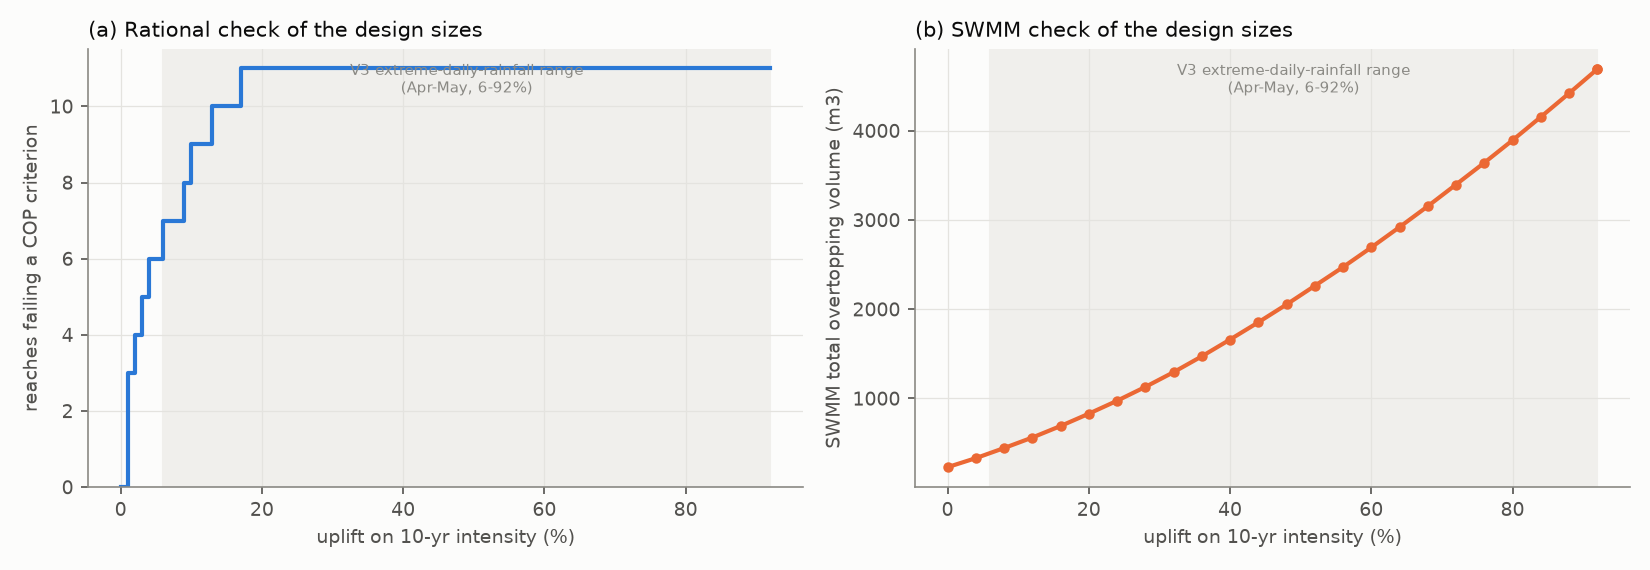
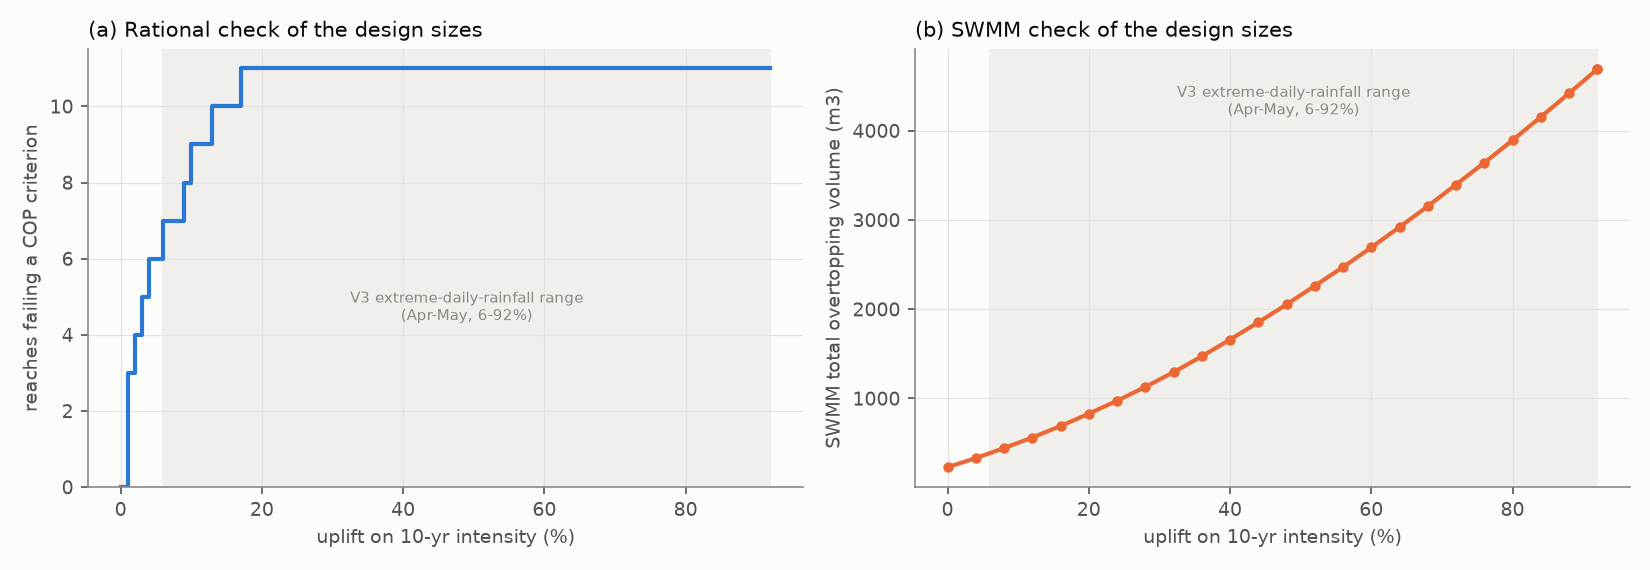
Fix sweep annotation, flag tc cycles, note SWMM Vmax exceedance; mutation runner summary

Changed region(s): [[0.7109, 0.1193, 0.8655, 0.2088], [0.2164, 0.507, 0.3709, 0.5667], [0.2164, 0.1193, 0.3709, 0.1789]]

diff --git a/sgdrain/rational.py b/sgdrain/rational.py
@@ -157,13 +157,13 @@ def _solve_reach(r: Reach, tc_up: float, sum_ca: float, T: int, uplift: float,
             chk = chooser(q)
             return tc_new, chk, q, it, True, abs(tc_new - tc)
         # discrete sizes can make the iteration cycle between two sections:
-        # resolve conservatively with the larger flow of the cycle
+        # resolve conservatively with the larger flow of the cycle and flag it
         if any(abs(tc_new - h[0]) < TC_TOL_MIN for h in history[:-1]):
             cyc = [h for h in history if h[0] >= min(tc_new, tc) - TC_TOL_MIN]
             tc_c = min(h[0] for h in cyc)
             q = cop.rational_q(1.0, idf.intensity(T, tc_c, uplift), sum_ca)
             chk = chooser(q)
-            return tc_c, chk, q, it, True, abs(tc_new - tc)
+            return tc_c, chk, q, it, False, abs(tc_new - tc)  # flagged: not a true fixed point
         tc = tc_new
     return tc, chk, q, MAX_ITER, False, abs(tc_new - tc)
 

diff --git a/sgdrain/plots.py b/sgdrain/plots.py
@@ -255,9 +255,10 @@ def sweep_plot(rat_csv: Path, swmm_csv: Path, path: Path):
     ax.set_xlabel("uplift on 10-yr intensity (%)")
     ax.set_ylabel("SWMM total overtopping volume (m3)")
     ax.set_title("(b) SWMM check of the design sizes", loc="left")
-    for a in axes:
+    for a, yfrac in zip(axes, (0.45, 0.92)):
         a.axvspan(6, 92, color="#f0efec", zorder=-2)
-        a.text(49, a.get_ylim()[1] * 0.97, "V3 extreme-daily-rainfall range\n(Apr-May, 6-92%)",
+        lo, hi = a.get_ylim()
+        a.text(49, lo + yfrac * (hi - lo), "V3 extreme-daily-rainfall range\n(Apr-May, 6-92%)",
                ha="center", va="top", fontsize=7, color=MUTED)
     fig.tight_layout()
     _save(fig, path)

diff --git a/mutation/run_mutants.py b/mutation/run_mutants.py
@@ -90,7 +90,8 @@ def copy_repo(dst: Path) -> Path:
 def run_pytest(cwd: Path, timeout: int = 900) -> tuple[int, str, float]:
     t0 = time.time()
     try:
-        p = subprocess.run([sys.executable, "-m", "pytest", "-x", "-q", "-p", "no:cacheprovider"],
+        p = subprocess.run([sys.executable, "-m", "pytest", "-x", "-q", "-o", "addopts=",
+                            "-p", "no:cacheprovider"],
                            cwd=cwd, capture_output=True, text=True, timeout=timeout)
         return p.returncode, p.stdout + p.stderr, time.time() - t0
     except subprocess.TimeoutExpired as e:

diff --git a/docs/README.template.md b/docs/README.template.md
@@ -76,9 +76,10 @@ SWMM peaks are higher than the rational Qr in every reach (ratio {{swmm_summary.
 - **Duration factor** = peak {{inputs_used.storm.dt_min}}-minute block intensity / IDF intensity at the overland time used in the rational method. The rational method applies the intensity for a duration equal to tc, with a {{inputs_used.cop.overland_time_min_range.0}} to {{inputs_used.cop.overland_time_min_range.1}} min overland time. SWMM's surface runoff from short, smooth paved areas responds within minutes, so it picks up the {{inputs_used.storm.dt_min}}-minute peak that the alternating-block storm contains. Range: {{swmm_summary.sub_duration_factor_min|.2f}} to {{swmm_summary.sub_duration_factor_max|.2f}}.
 - **Runoff factor** = (SWMM peak runoff / peak rainfall rate on the area) / COP C. SWMM's losses (depression storage plus Green-Ampt infiltration in a clay-loam soil) remove less water at the peak than the COP coefficients imply. Range: {{swmm_summary.sub_runoff_factor_min|.2f}} to {{swmm_summary.sub_runoff_factor_max|.2f}}. Event runoff coefficients in SWMM are {{swmm_summary.sub_event_runoff_coeff_min}} to {{swmm_summary.sub_event_runoff_coeff_max}}, against COP C of {{inputs_used.catchment.c_min|.2f}} to {{inputs_used.catchment.c_max|.2f}}.
 - In the network, routing through the drains attenuates and offsets the sub-catchment peaks, which fits the reach ratios lying between the sub-catchment extremes. Where a drain runs full, SWMM also caps the flow: `SWMM max y/D` reaches the full drain depth, and the excess overtops at the upstream node.
+- SWMM's peak velocity also exceeds the COP's {{inputs_used.cop.v_max_concrete|.1f}} m/s limit in reach(es) {{swmm_summary.design.reaches_over_vmax|list}}. The rational check at normal depth does not show this.
 - A sandier soil (sandy loam, SWMM manual Table A.2) lowers the event runoff coefficient to {{swmm_summary.sandy_loam.event_runoff_coefficient}} but barely moves the outfall peak ({{swmm_summary.sandy_loam.outfall_swmm_peak_m3s}} m3/s). Overtopping falls to {{swmm_summary.sandy_loam.flood_volume_m3|.0f}} m3. Losses matter less than timing for these peaks.
 
-**SWMM-led upsizing (heuristic).** Repeatedly enlarging the most downstream failing reaches by one catalogue step, until SWMM shows no overtopping and no reach deeper than {{inputs_used.swmm.freeboard_depth_ratio}} D, takes {{swmm_summary.greedy_upsizing_design_storm.n_changed}} reaches and +{{swmm_summary.greedy_upsizing_design_storm.drain_volume_increase_pct}}% drain volume for the design storm. The heuristic only targets depth: its final peak velocity is {{swmm_summary.greedy_upsizing_design_storm.final_max_velocity_ms}} m/s against the COP limit of {{inputs_used.cop.v_max_concrete|.1f}} m/s. It is not proven minimal.
+**SWMM-led upsizing (heuristic).** Repeatedly enlarging the most downstream failing reaches by one catalogue step, until SWMM shows no overtopping and no reach deeper than {{inputs_used.swmm.freeboard_depth_ratio}} D, takes {{swmm_summary.greedy_upsizing_design_storm.n_changed}} reaches and +{{swmm_summary.greedy_upsizing_design_storm.drain_volume_increase_pct}}% drain volume for the design storm. The heuristic only targets depth: its final peak velocity is {{swmm_summary.greedy_upsizing_design_storm.final_max_velocity_ms|.2f}} m/s against the COP limit of {{inputs_used.cop.v_max_concrete|.1f}} m/s. It is not proven minimal.
 
 ![SWMM vs rational](results/figures/swmm_vs_rational.png)
 

diff --git a/README.md b/README.md
@@ -112,9 +112,10 @@ SWMM peaks are higher than the rational Qr in every reach (ratio 1.25 to 1.36). 
 - **Duration factor** = peak 5-minute block intensity / IDF intensity at the overland time used in the rational method. The rational method applies the intensity for a duration equal to tc, with a 5 to 15 min overland time. SWMM's surface runoff from short, smooth paved areas responds within minutes, so it picks up the 5-minute peak that the alternating-block storm contains. Range: 1.00 to 1.24.
 - **Runoff factor** = (SWMM peak runoff / peak rainfall rate on the area) / COP C. SWMM's losses (depression storage plus Green-Ampt infiltration in a clay-loam soil) remove less water at the peak than the COP coefficients imply. Range: 1.10 to 1.26. Event runoff coefficients in SWMM are 0.893 to 0.977, against COP C of 0.64 to 0.91.
 - In the network, routing through the drains attenuates and offsets the sub-catchment peaks, which fits the reach ratios lying between the sub-catchment extremes. Where a drain runs full, SWMM also caps the flow: `SWMM max y/D` reaches the full drain depth, and the excess overtops at the upstream node.
+- SWMM's peak velocity also exceeds the COP's 3.0 m/s limit in reach(es) M4. The rational check at normal depth does not show this.
 - A sandier soil (sandy loam, SWMM manual Table A.2) lowers the event runoff coefficient to 0.864 but barely moves the outfall peak (6.217 m3/s). Overtopping falls to 109 m3. Losses matter less than timing for these peaks.
 
-**SWMM-led upsizing (heuristic).** Repeatedly enlarging the most downstream failing reaches by one catalogue step, until SWMM shows no overtopping and no reach deeper than 0.85 D, takes 11 reaches and +28.7% drain volume for the design storm. The heuristic only targets depth: its final peak velocity is 3 m/s against the COP limit of 3.0 m/s. It is not proven minimal.
+**SWMM-led upsizing (heuristic).** Repeatedly enlarging the most downstream failing reaches by one catalogue step, until SWMM shows no overtopping and no reach deeper than 0.85 D, takes 11 reaches and +28.7% drain volume for the design storm. The heuristic only targets depth: its final peak velocity is 3.00 m/s against the COP limit of 3.0 m/s. It is not proven minimal.
 
 ![SWMM vs rational](results/figures/swmm_vs_rational.png)
 
